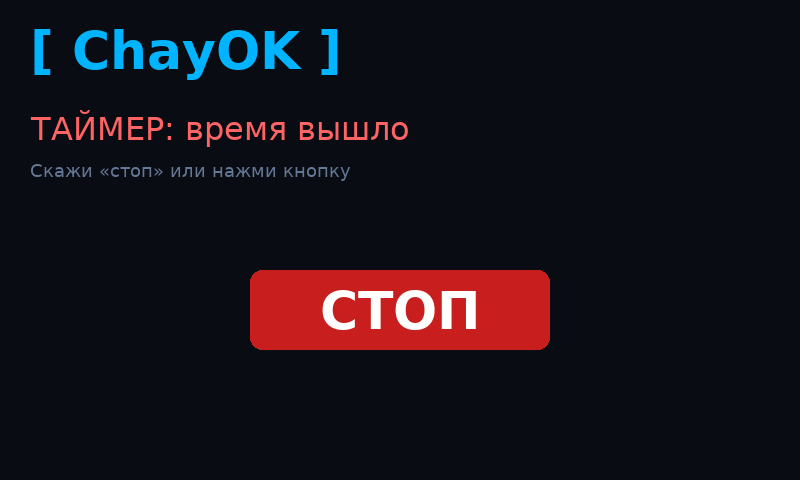
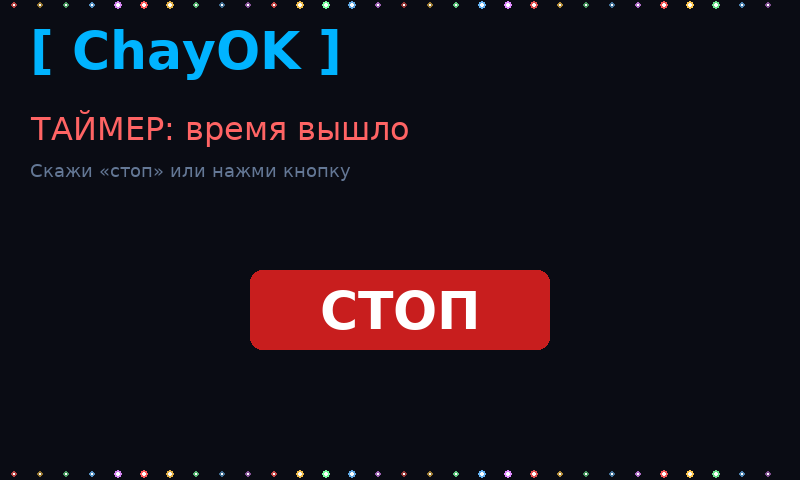
Волны радио, посимвольный вывод, новогодняя гирлянда и нормализация речи

diff --git a/main.py b/main.py
@@ -225,6 +225,49 @@ ICON_SNOW = (225, 245, 255)
 ICON_BOLT = (255, 210, 70)
 
 
+def draw_radio_waves(surface, rect, phase, energy=None):
+    """Три бегущие синусоиды — волны вместо столбиков."""
+    energy = volume.load() if energy is None else energy
+    layers = (
+        (COLORS["primary"], 0.55, 1.0),
+        (COLORS["secondary"], 0.38, 1.6),
+        (COLORS["accent"], 0.26, 2.4),
+    )
+    for color, amplitude_ratio, speed in layers:
+        amplitude = rect.height * amplitude_ratio * (0.75 + 0.25 * energy)
+        points = []
+        for x in range(rect.left, rect.right + 1, 6):
+            t = (x - rect.left) / max(1, rect.width)
+            y = rect.centery + math.sin(t * 6.28318 * 1.5 + phase * speed) * amplitude
+            points.append((x, y))
+        pygame.draw.lines(surface, color, False, points, 2)
+
+
+HOLIDAY_COLORS = ((255, 92, 92), (255, 200, 80), (120, 255, 160),
+                  (110, 190, 255), (225, 140, 255))
+
+
+def holiday_mode(now=None):
+    """Гирлянда с 1 декабря по 5 января. CHAYOK_HOLIDAY=1 включает принудительно."""
+    if os.environ.get("CHAYOK_HOLIDAY") == "1":
+        return True
+    now = now or datetime.datetime.now()
+    return now.month == 12 or (now.month == 1 and now.day <= 5)
+
+
+def draw_garland(surface, seconds):
+    spacing = 26
+    for edge_y in (5, SCREEN_HEIGHT - 6):
+        for index, x in enumerate(range(14, SCREEN_WIDTH - 8, spacing)):
+            color = HOLIDAY_COLORS[index % len(HOLIDAY_COLORS)]
+            twinkle = 0.5 + 0.5 * math.sin(seconds * 2.4 + index * 0.9)
+            intensity = 0.55 + 0.45 * twinkle
+            radius = 2 + int(2.5 * intensity)
+            pygame.draw.circle(surface, tuple(int(c * intensity) for c in color),
+                               (x, edge_y), radius)
+            pygame.draw.circle(surface, (255, 255, 255), (x, edge_y), max(1, radius // 2))
+
+
 def weather_icon_kind(code):
     code = int(code)
     if code in (0, 1):
@@ -652,7 +695,21 @@ def speak_piper(text):
     _speech_queue.put(text)
 
 
+def speech_text(text):
+    """Готовит текст для Piper: символы, на которых он запинается."""
+    text = text.replace("м/с", "метров в секунду")
+    text = text.replace("км/ч", "километров в час")
+    text = text.replace("%", " процентов")
+    text = text.replace("°C", " градусов").replace("°", " градусов")
+    text = re.sub(r"(\d)\s*\.\s*(\d)", r"\1,\2", text)        # 3.8 → 3,8
+    text = re.sub(r"(?<![\w-])-\s*(\d)", r"минус \1", text)   # -4 → минус 4
+    text = re.sub(r"(?<![\w-])\+\s*(\d)", r"плюс \1", text)
+    text = re.sub(r"\s+", " ", text)
+    return text.strip()
+
+
 def speak_piper_sync(text):
+    text = speech_text(text)
     if not text or not os.path.exists(PIPER_PATH):
         return
     temp_file = None
@@ -831,9 +888,14 @@ def ask_llm_streaming(command, ui_ref):
                     full_text += piece
                     sentence_buffer += piece
                     ui_ref.response = full_text.strip()
-                    if re.search(r"[.!?…\n]", piece) and len(sentence_buffer.strip()) > 4:
-                        speak_piper(sentence_buffer.strip())
-                        sentence_buffer = ""
+                    # озвучиваем только законченное предложение: ждём точку,
+                    # вопрос или восклицание, после которых пробел или конец
+                    while True:
+                        match = re.search(r"[^.!?…]*[.!?…](?=\s|$)", sentence_buffer)
+                        if not match or len(match.group(0).strip()) < 5:
+                            break
+                        speak_piper(match.group(0).strip())
+                        sentence_buffer = sentence_buffer[match.end():].lstrip()
             finally:
                 r.close()
 
@@ -1241,6 +1303,8 @@ class ChayOKUI:
     def __init__(self):
         self.status = "Ready"
         self.response = "Я ЧайОК, голосовой помощник."
+        self.reveal = 0.0          # сколько символов ответа уже показано
+        self._last_tick = pygame.time.get_ticks()
         self.subtext = "Скажи 'ЧайОК' или нажми кнопку"
         self.weather_data = None
         self.show_buttons = True
@@ -1292,6 +1356,8 @@ class ChayOKUI:
         btn_text = font_title.render("СТОП", True, (255, 255, 255))
         screen.blit(btn_text, btn_text.get_rect(center=btn_rect.center))
         self.alarm_stop_rect = btn_rect
+        if holiday_mode():
+            draw_garland(screen, pygame.time.get_ticks() / 1000.0)
         pygame.display.flip()
 
     def update_display_alarm(self):
@@ -1352,6 +1418,7 @@ class ChayOKUI:
         if is_generating:
             return
         self.status = "Thinking..."
+        self.reveal = 0.0
         self.update_display()
 
         response, weather = process_command(command)
@@ -1373,6 +1440,18 @@ class ChayOKUI:
 
     def update_display(self):
         screen.fill(COLORS["bg"])
+
+        # посимвольный вывод ответа
+        now_ms = pygame.time.get_ticks()
+        delta = min(0.25, max(0.0, (now_ms - self._last_tick) / 1000.0))
+        self._last_tick = now_ms
+        full_text = self.response or ""
+        if self.reveal < len(full_text):
+            self.reveal = min(len(full_text), self.reveal + delta * 60)
+        elif self.reveal > len(full_text):
+            self.reveal = len(full_text)
+        visible_text = full_text[:int(self.reveal)]
+
         logo = get_logo()
         if logo:
             screen.blit(logo, (SCREEN_WIDTH - 70, SCREEN_HEIGHT - 70))
@@ -1414,20 +1493,26 @@ class ChayOKUI:
         if self.weather_data and "Ошибка" not in self.weather_data:
             card_w = SCREEN_WIDTH - 320
 
-        if self.response:
+        if full_text:
             card = pygame.Rect(30, 150, card_w, 198)
             draw_rounded_rect(screen, COLORS["card_bg"], card, radius=8)
             # только контур: draw_rounded_rect всегда заливает цветом
             pygame.draw.rect(screen, COLORS["border"], card, 1, border_radius=8)
-            lines = wrap_text(self.response, font_text, card_w - 40)
+            lines = wrap_text(visible_text, font_text, card_w - 40)
             y = 168
             max_lines = (card.height - 36) // 30
-            shown = lines[-max_lines:]
+            if radio_mod.player.active():
+                max_lines -= 1  # внизу карточки живут волны радио
+            shown = lines[-max_lines:] if lines else []
             if len(lines) > max_lines:
                 shown[0] = "… " + shown[0]
             for line in shown:
                 screen.blit(font_text.render(line, True, COLORS["text"]), (50, y))
                 y += 30
+
+            if radio_mod.player.active():
+                wave_rect = pygame.Rect(card.left + 14, card.bottom - 34, card.width - 28, 28)
+                draw_radio_waves(screen, wave_rect, now_ms / 1000.0)
 
         if self.weather_data and "Ошибка" not in self.weather_data:
             wx, wy = SCREEN_WIDTH - 280, 150
@@ -1469,6 +1554,9 @@ class ChayOKUI:
                 draw_rounded_rect(screen, color, btn["rect"], radius=8)
                 btn_text = font_button.render(btn["label"], True, (255, 255, 255))
                 screen.blit(btn_text, btn_text.get_rect(center=btn["rect"].center))
+
+        if holiday_mode():
+            draw_garland(screen, now_ms / 1000.0)
         pygame.display.flip()
 
 

diff --git a/README.md b/README.md
@@ -12,6 +12,8 @@
 
 ![Погода и прогноз](docs/screenshots/screen-weather.png)
 
+![Радио](docs/screenshots/screen-radio.png)
+
 ![Таймер](docs/screenshots/screen-timer.png)
 
 ## Что умеет
